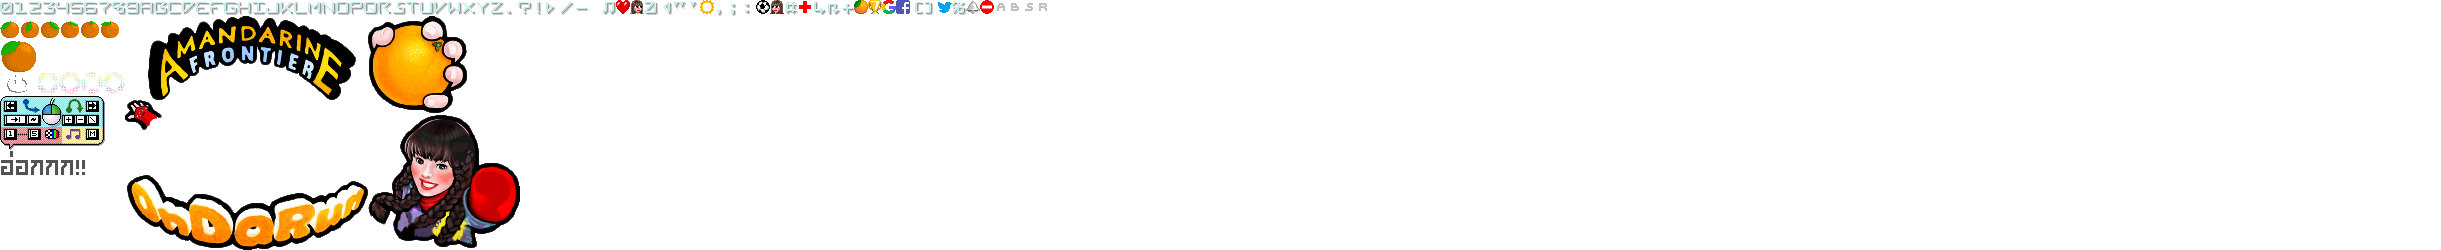
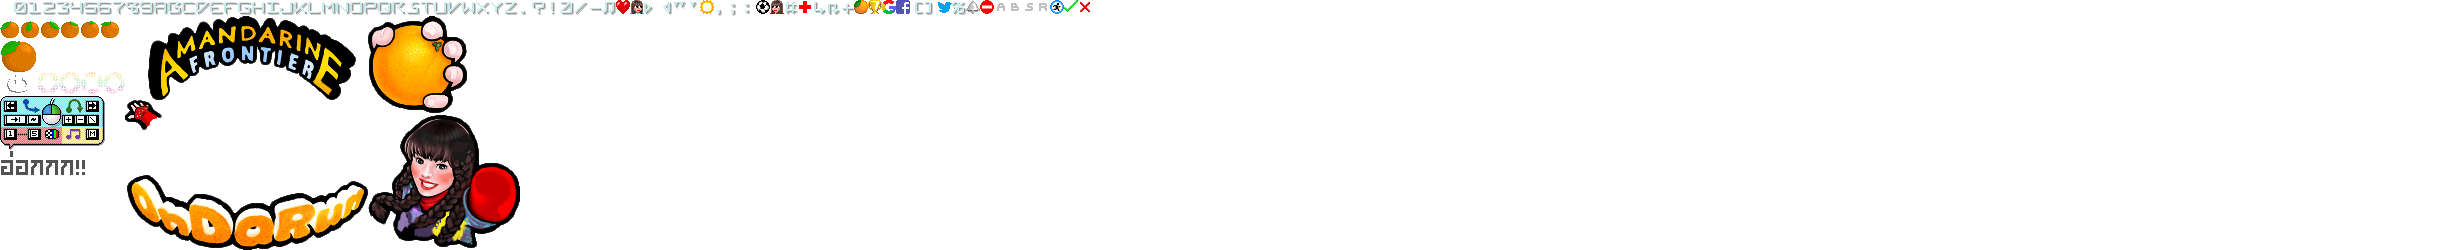
Improve Text system.
Changes:
* Rearrange source glyphs positons.
* Adjust  whitespaces handling.

Changed region(s): [[0.0, 0.0, 0.2802, 0.056], [0.4048, 0.0, 0.4359, 0.056]]

diff --git a/ondarun/src/components/n7e-ondarun.js b/ondarun/src/components/n7e-ondarun.js
@@ -2783,14 +2783,14 @@ class Scoreboard {
 Scoreboard.achievementScore = 100;
 
 class Text {
-  constructor( alignment = -1, string, maxLength ){
+  constructor( alignment = -1, string, maxLength, softLength ){
     this.glyphs = [];
     this._alignment = alignment;
-    this.minLength = 0;
+    //this.minLength = 0;
     this.lineLengths = [];
     this.alignment = alignment;
     if( string ){
-      this.setString( string, maxLength );
+      this.setString( string, maxLength, softLength );
     }
   }
 
@@ -2804,6 +2804,8 @@ class Text {
 
     // #substitutions
     this.glyphMap = new Map([
+       // this will be the special glyph that can invoke a callback
+       // during the rendering time, default will be printing #
       [ 0xe000, 784 ],
       [ 0xe001, 630 ],
       [ 0xe002, 770 ],
@@ -2814,7 +2816,7 @@ class Text {
       [ 0xe00c, 938 ],
       [ 0xe00d, 798 ],
       [ 0xe00e, 854 ],
-      [ 0xe00f, 644 ],
+      [ 0xe00f, 560 ],
       [ 0xe010, 868 ],
       [ 0xe011, 616 ],
       [ 0xe012, 602 ],
@@ -2825,26 +2827,29 @@ class Text {
       [ 0xe017, 1008 ],
       [ 0xe018, 1022 ],
       [ 0xe019, 1036 ],
+      [ 0xe020, 1050 ],
+      [ 0xe021, 644 ],
+      [ 0xe022, 658 ],
+      [ 0xe023, 1064 ],
+      [ 0xe024, 1078 ],
     ]);
 
     // Alphanumerics
-    [[ 140, 97, 122 ], [ 140, 65, 90 ], [ 0, 48, 57 ]].forEach(([ a, b, c ]) => {
+    [[ 154, 97, 122 ], [ 154, 65, 90 ], [ 14, 48, 57 ]].forEach(([ a, b, c ]) => {
       for( let code = b; code <= c; code++ ){
         this.glyphMap.set( code, a + ( code - b ) * 14 );
       }
     });
 
     // Unicode Symbols
-    [['.', 504 ],
-     ['?', 518 ],
-     ['!', 532 ],
-     ['▻', 546 ],
-     ['/', 560 ],
-     ['-', 574 ],
-     ['_', 588 ],
-     [' ', 588 ],
+    [['.', 518 ],
+     ['?', 532 ],
+     ['!', 546 ],
+     ['/', 574 ],
+     ['-', 588 ],
+     ['_', 0 ],
+     [' ', 0 ],
      ['♬', 602 ],
-     ['◅', 658 ],
      ['"', 672 ],
      ["'", 686 ],
      ["☼", 700 ],
@@ -2881,6 +2886,11 @@ class Text {
       [ '#gameB', 0xe017 ],
       [ '#gameS', 0xe018 ],
       [ '#gameR', 0xe019 ],
+      [ '#speed', 0xe020 ],
+      [ '#right', 0xe021 ],
+      [ '#left', 0xe022 ],
+      [ '#true', 0xe023 ],
+      [ '#false', 0xe024 ],
     ].forEach( sym =>
       this.symbolMap.push({
         char: String.fromCharCode( sym[ 1 ]),
@@ -2903,59 +2913,74 @@ class Text {
     return messageStr;
   }
 
-  setString( messageStr, maxLength = 10000 ){
-    return this.setSubstitutedString( Text.substituteString( messageStr ), maxLength );
+  setString( messageStr, maxLength, softLength ){
+    return this.setSubstitutedString( Text.substituteString( messageStr ), maxLength, softLength );
   }
 
-  setSubstitutedString( messageStr, maxLength ){
+  setSubstitutedString( messageStr, maxLength = 10000, softLength = maxLength ){
 
     if( !messageStr ){
       this.glyphs = [];
       this.lineLengths.splice( 0 );
-      this.minLength = 0;
+      //this.minLength = 0;
       return this;
     }
 
     this.glyphs = [];
     this.lineLengths = [];
     let lineNo = 0;
-    this.minLength = 0;
+    //this.minLength = 0;
 
     let parts = messageStr.split('\n');
     parts.forEach(( part, index ) => {
 
       let cur = 0;
-      let space = 0;
+      let breaker = false;
       part.split(' ').forEach( word => {
         if( cur != 0 && cur + word.length > maxLength ){
           this.lineLengths[ lineNo ] = this.glyphs.length;
-          this.minLength = Math.max( this.minLength, this.glyphs.length );
+          //this.minLength = Math.max( this.minLength, this.glyphs.length );
           lineNo++;
           cur = 0;
-          space = 0;
+          breaker = false;
         }
 
         if( word.length ){
 
           //Fill leading spaces
-          this.glyphs.push(...Array( space ).fill( 588 ));
+          //this.glyphs.push(...Array( space ).fill( 0 ));
           //Fill converted glyphs from word
+          if( breaker ){
+            this.glyphs.push(0);
+            cur++;
+          }
+
           for( let i = 0, code; code = word.charCodeAt( i ); i++ ){
             this.glyphs.push(Text.glyphMap.get( code ));
           }
-
           cur+= word.length;
-          space = 1;
-          cur++;
+
+          if( cur > softLength ){
+            this.lineLengths[ lineNo ] = this.glyphs.length;
+            lineNo++;
+            cur = 0;
+            breaker = false;
+            //this.minLength = Math.max( this.minLength, this.glyphs.length );
+          } else breaker = true;
         } else {
-          space++;
+          if( breaker ){
+            this.glyphs.push(0);
+            cur++;
+          }
+          this.glyphs.push(0);
+          breaker = false;
           cur++;
         }
 
       });
 
       this.lineLengths[ lineNo ] = this.glyphs.length;
-      this.minLength = Math.max( this.minLength, this.glyphs.length );
+      //this.minLength = Math.max( this.minLength, this.glyphs.length );
       lineNo++;
     });
 
@@ -3293,7 +3318,7 @@ by making a donation to
 the thai redcross society
 
 
-◅ to donate #slide                #jump to sprint ▻
+#left to donate #slide                #jump to sprint #right
 `);
 
     // Main Amandarine story
@@ -3303,12 +3328,12 @@ the thai redcross society
 
 In the unfortunate beginning, Amandarine was unhealthy from birth. Her family had been trying all kinds of treatments, but her condition didn't improve. She had to endure suffering from the cruel birth defect throughout her childhood. The doctor had warned that her condition would be life-threatening by anytime.
 
-But despite her illness, the baby had still been growing and growing up, until the day of her 18th birthday...`, 39 ),
+But despite her illness, the baby had still been growing and growing up, until the day of her 18th birthday...`, 39, 37 ),
 
       new Text( -1,
 `That morning, Amandarine was having her custard bread. She then heard the sound of someone playing the ukulele while singing a song she had never heard before. She looked out the window and saw a man, a street performer, maybe; who was walking pass by until suddenly stumbled upon the rock and fell abjectly.
 
-She hurried out to see him and found him cringing, rubbing his little toe. He was still groaning faintly in pain as he looked back at her. Or he didn't look at her actually, he looked at the half-eaten loaf of bread she took with her...`, 39 ),
+She hurried out to see him and found him cringing, rubbing his little toe. He was still groaning faintly in pain as he looked back at her. Or he didn't look at her actually, he looked at the half-eaten loaf of bread she took with her...`, 39, 37 ),
 
       new Text( -1,
 `Warm sunlight was teasing the cold breeze that was blowing gently. The birds chirping in the morning reminded her that this man must definitely be hungry. She, therefore, gave him the remaining bread. He smiled with gratitude and started eating the bread happily.
@@ -3378,6 +3403,7 @@ Which also doesn't exist.
 
 -Special Thanks-
 
+#natA
 #<3 Dusita Kitisarakulchai #<3
 ..as the inspiration..
 
@@ -3395,7 +3421,7 @@ The Thai Redcross Society #redcross
     this.storyPhotos = [];
     this.imagesLoadedTime = Infinity;
 
-    this.msPerLine = 2250;
+    this.msPerLine = 2150;
 
     let clock = 3000;
 
@@ -3673,12 +3699,12 @@ The Thai Redcross Society #redcross
             //20 is the default glyph height.
             let y = ~~( 200- 20*beginTime /this.msPerLine );
             if( index == this.story.length- 1 ){
-              let g = this.timer%400 > 200 ? 616 : 588;
+              let g = this.timer%400 > 200 ? 616 : 0;
               // They are hard-coded but it's planned to allow
               // a special glyph that will invoke a callback.
               // See 0xe000 784
-              this.story[index].glyphs[341] = g;
-              this.story[index].glyphs[366] = g;
+              this.story[index].glyphs[342] = g;
+              this.story[index].glyphs[367] = g;
               this.story[ index ].draw( this.canvasCtx, 300, y);
             } else {
               this.story[ index ].draw( this.canvasCtx, 25, y);
@@ -3690,7 +3716,7 @@ The Thai Redcross Society #redcross
         if( this.fastForwarding && this.timer%600 > 300 && this.storyEndTime > storyTimer ){
 
           if( !this.__fastForwardingText ){
-            this.__fastForwardingText = new Text( 1, "▻▻" );
+            this.__fastForwardingText = new Text( 1, "#right#right" );
           }
           this.__fastForwardingText.draw( this.canvasCtx, 600, 185, 10 );
         }
@@ -3958,7 +3984,7 @@ class Menu extends Panel {
       this.canvasCtx.globalAlpha = (entry.disabled ? 0.5 : 1)*Math.max(0.1,(4 - xxx)/4);
       if (entry.hasOwnProperty('value')) title += '.'.repeat(32-title.length-(entry.value+'').length)+'[ '+entry.value+' ]';
 
-      this.text.setString((i == this.model.currentIndex ? (entry.exit ? '◅ ' : ' ▻'):'  ') +title +(entry.disabled ? ' #noentry' : '')).draw(
+      this.text.setString((i == this.model.currentIndex ? (entry.exit ? '#left ' : ' #right'):'  ') +title +(entry.disabled ? ' #noentry' : '')).draw(
         this.canvasCtx,
         this.xOffset + 20 + 2 * 3 * Math.round(Math.sqrt(100*xxx) / 3),
         this.yOffset + 90 + 5 * Math.round(4 * (i-this.displayEntry)));
@@ -3974,8 +4000,8 @@ class Menu extends Panel {
       this.submenu.forward(deltaTime, depth + 1 );
     }
 
-    if (this.model.title){
-      new Text( 0 ).drawString( this.model.title, this.canvasCtx, 300, 10+ 20*depth);
+    if( this.model.title ){
+      new Text( 0 ).drawString( this.model.title, this.canvasCtx, 300, 10);
     }
 
     if( this.bottomText ){
